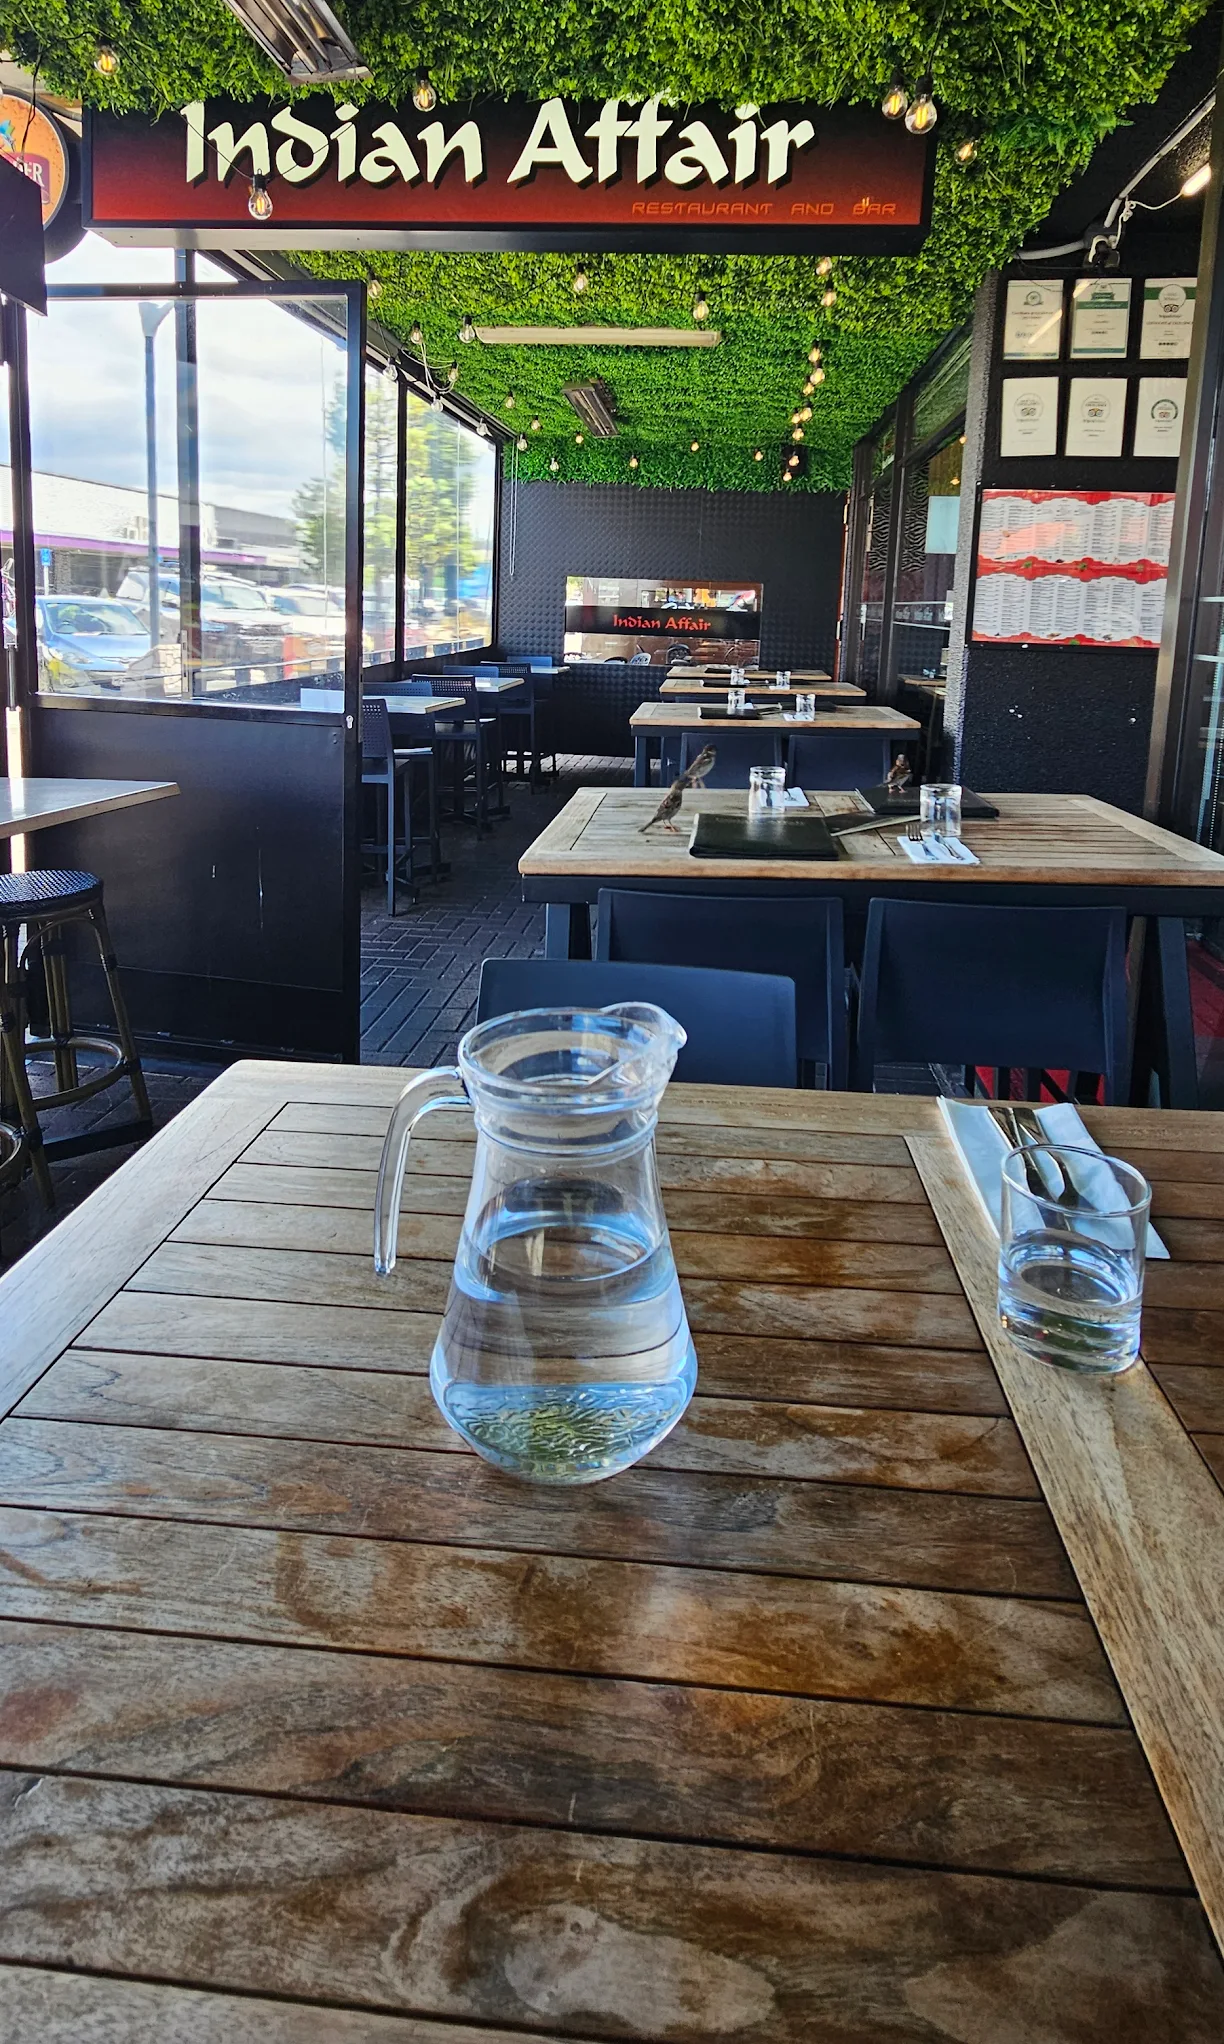
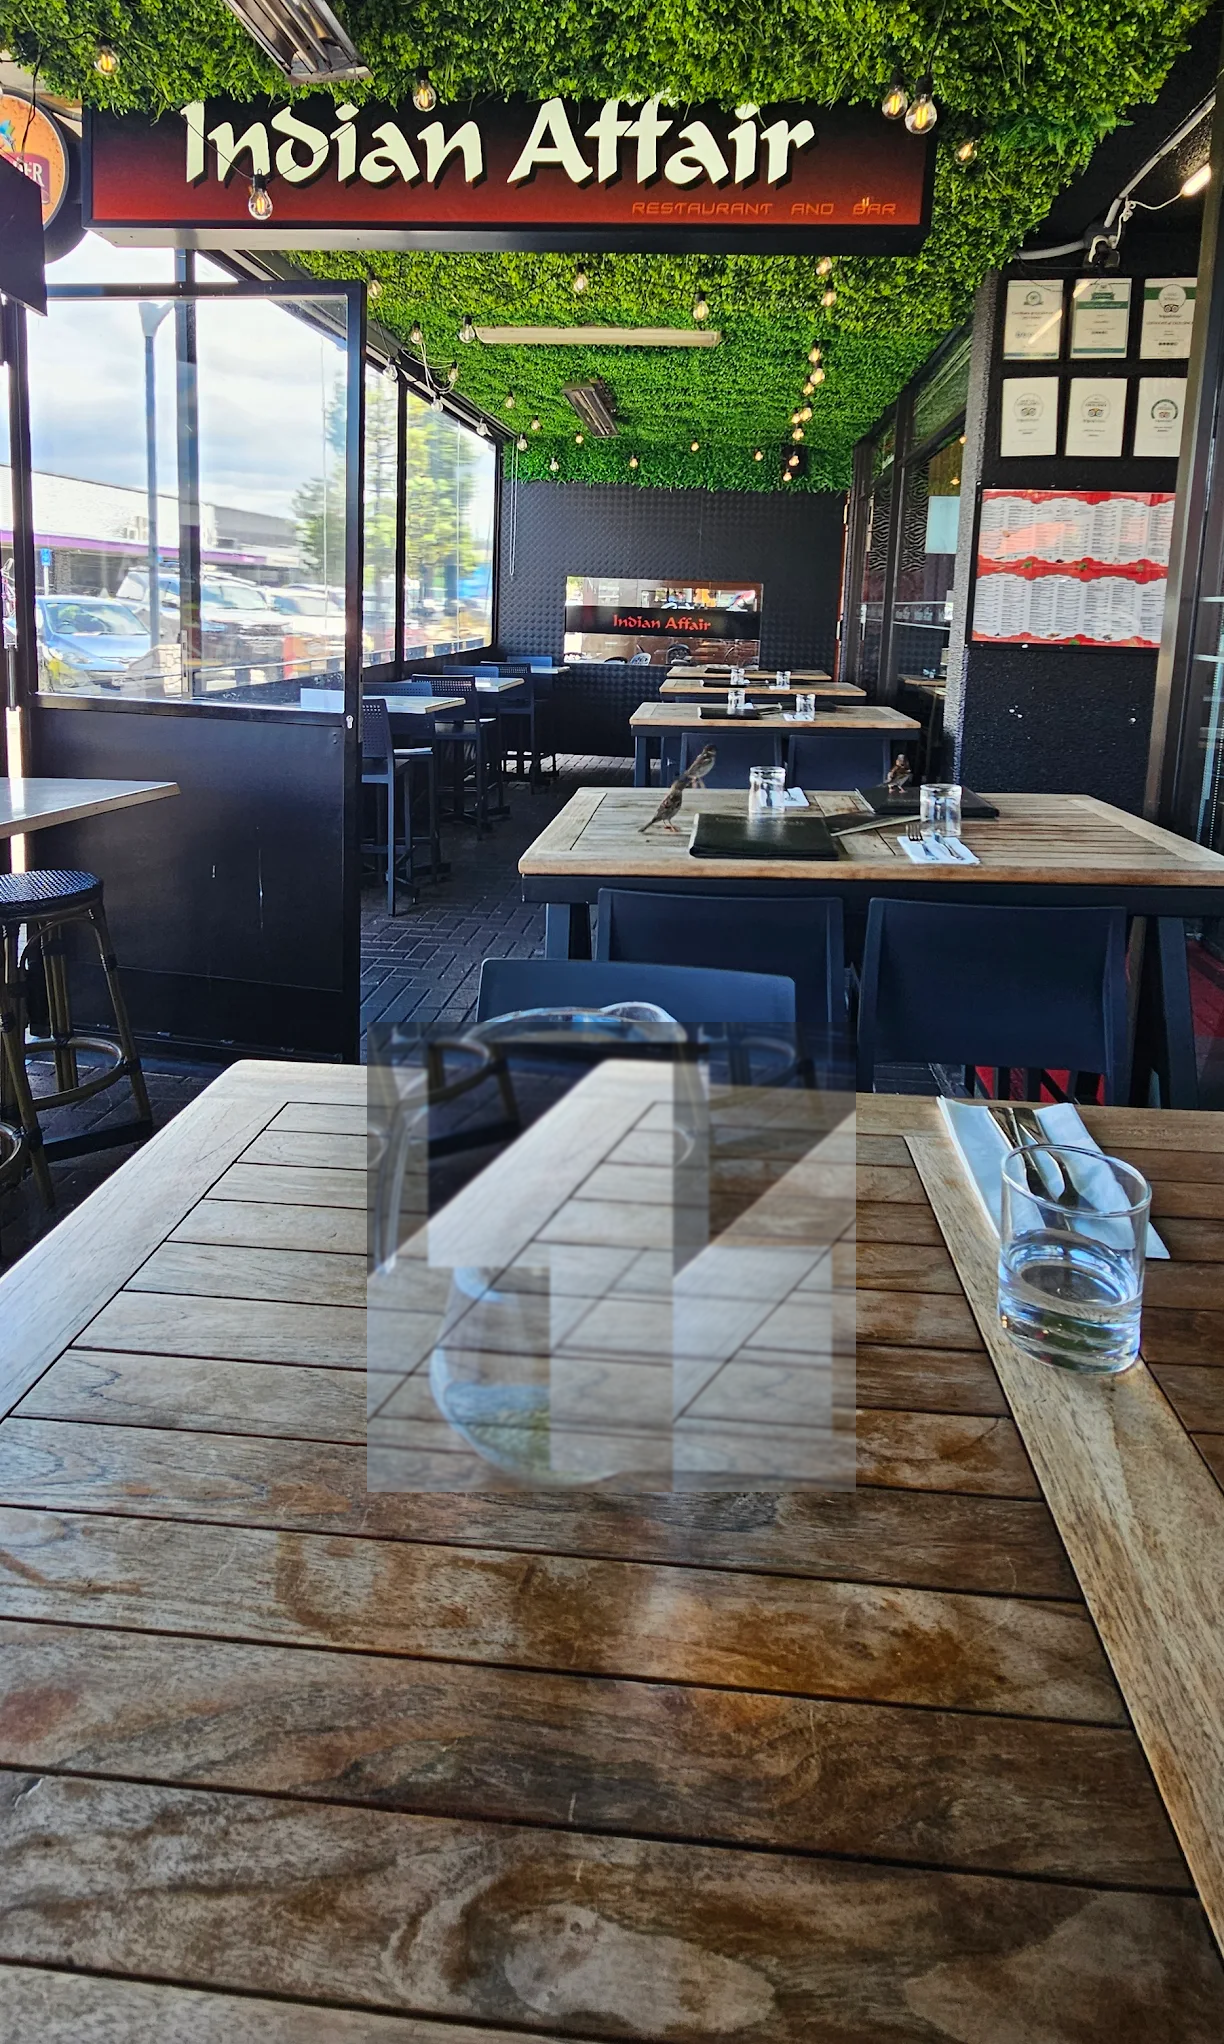
Hero: position dining room photo at 30% to show ceiling lights, avoid bird tables

Changed region(s): [[0.2794, 0.4932, 0.7141, 0.7397]]

diff --git a/home.html b/home.html
@@ -37,7 +37,7 @@ img{display:block;max-width:100%}
 
 /* ── Hero ── */
 .hero{height:100vh;min-height:600px;position:relative;display:flex;align-items:center;padding:0 2.5rem;padding-top:80px}
-.hero-bg{position:absolute;inset:0;background:url('img-hero.png') center/cover no-repeat;transition:transform .1s}
+.hero-bg{position:absolute;inset:0;background:url('img-dining.png') center 30%/cover no-repeat;transition:transform .1s}
 .hero-bg::after{content:'';position:absolute;inset:0;background:linear-gradient(to top, rgba(12,10,7,1) 0%, rgba(12,10,7,.7) 40%, rgba(12,10,7,.45) 100%)}
 .hero-content{position:relative;max-width:700px}
 .hero-eyebrow{font-size:.7rem;letter-spacing:.25em;text-transform:uppercase;color:var(--gold);margin-bottom:1.2rem;opacity:1}